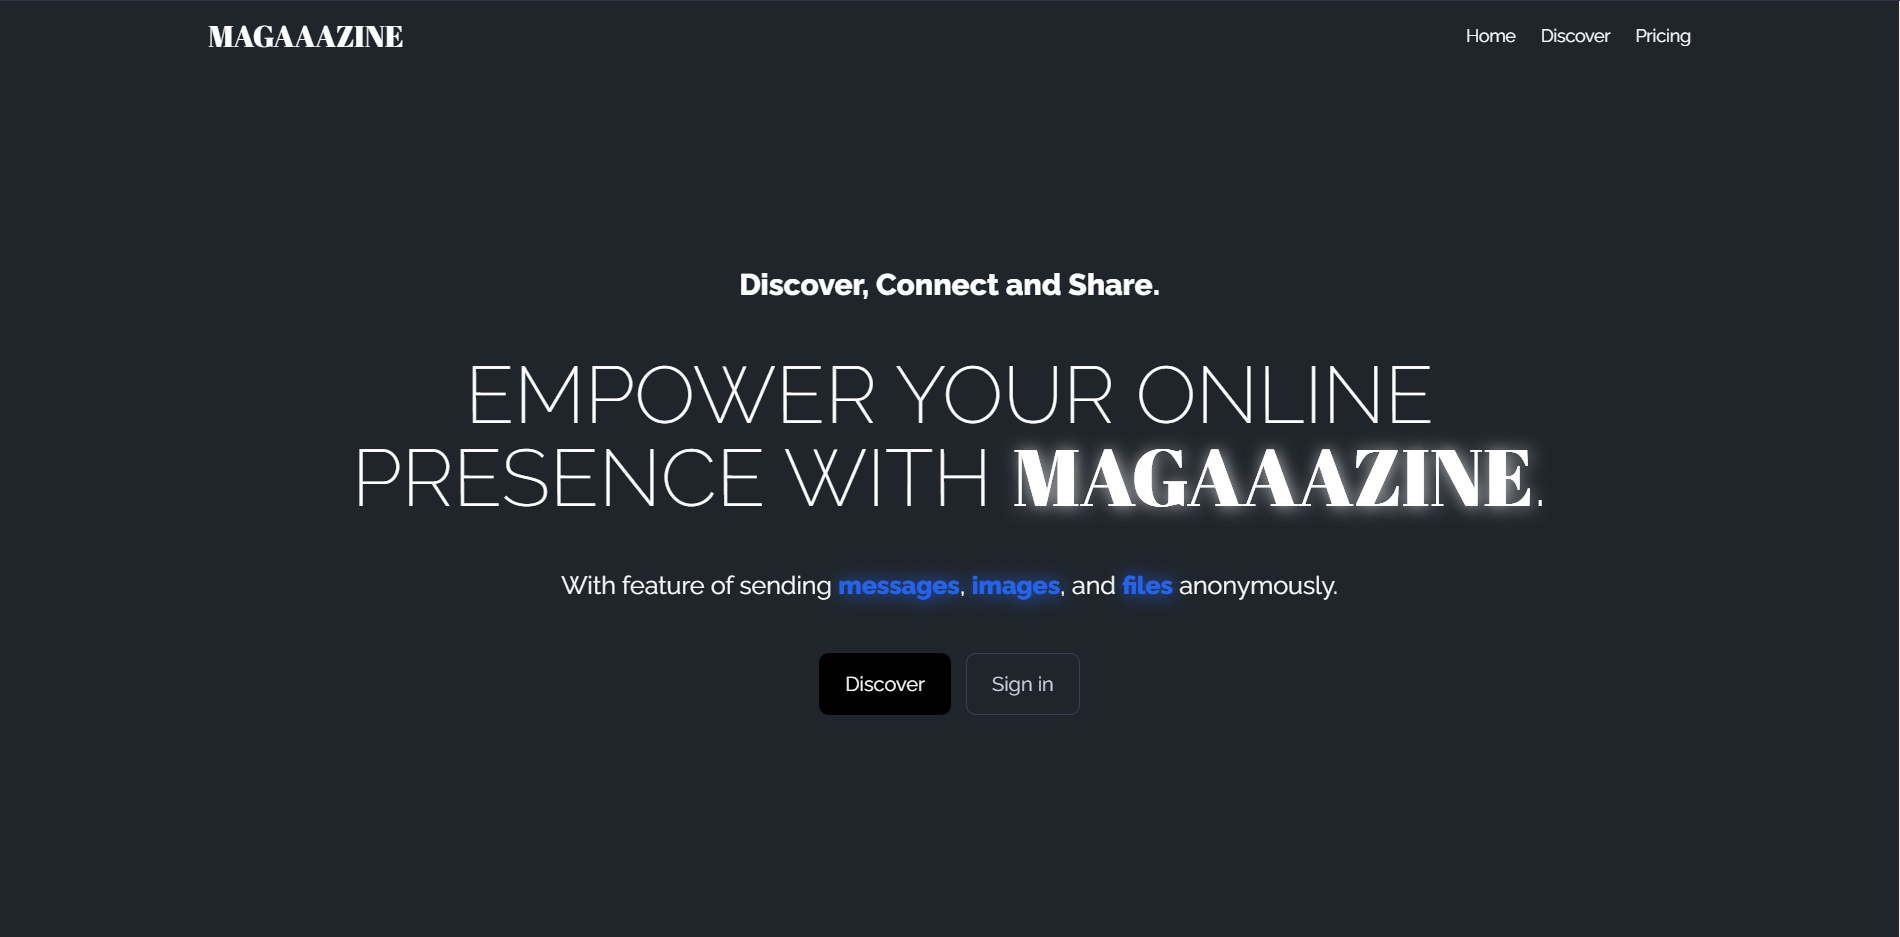
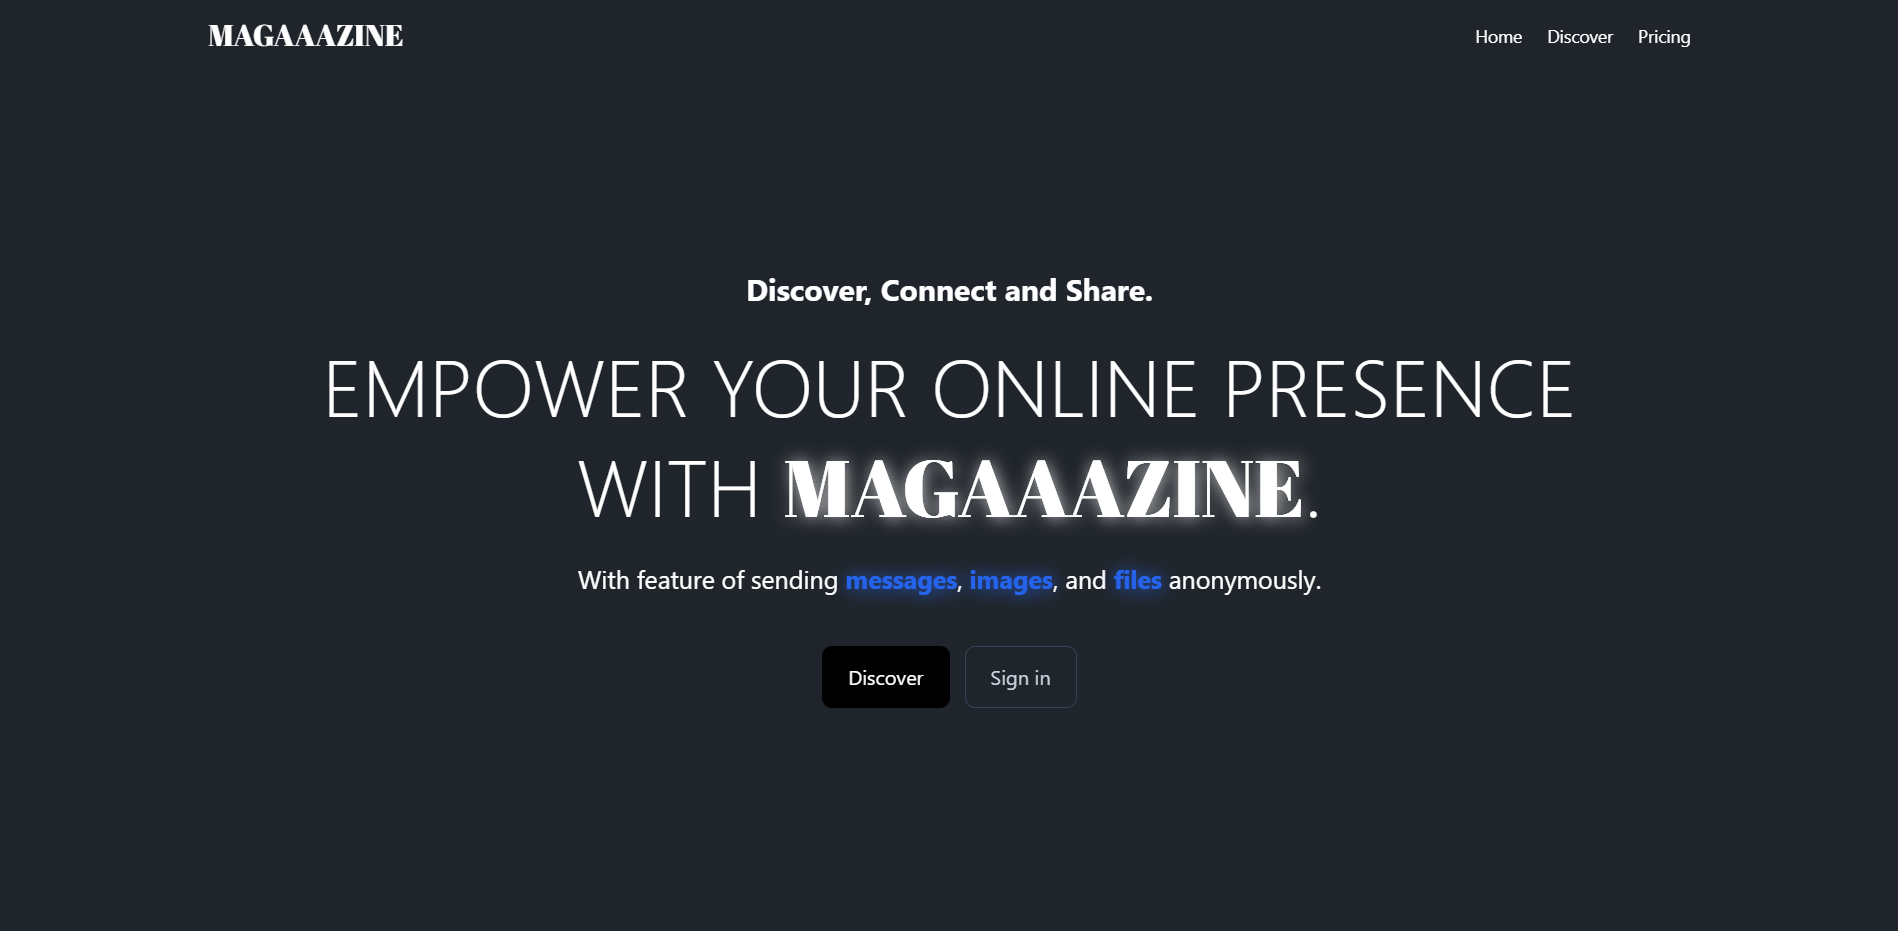
style: update homepage ui layout (#90)

diff --git a/src/app/page.tsx b/src/app/page.tsx
@@ -9,11 +9,11 @@ export default async function Home() {
   return (
     <DefaultLayout>
       <section className="flex h-full min-h-full w-full flex-col items-center justify-start p-2 md:min-h-screen md:justify-center md:p-5">
-        <div className="mt-[5rem] flex w-full max-w-full flex-col items-center gap-y-5 md:-mt-20 md:max-w-5xl md:gap-y-10">
+        <div className="mt-[5rem] flex w-full max-w-full flex-col items-center gap-y-5 md:-mt-20 md:max-w-5xl md:gap-y-5">
           <h2 className="text-center font-raleway text-xl font-bold md:text-2xl">
             Discover, Connect and Share.
           </h2>
-          <h1 className="text-center font-raleway text-4xl font-light uppercase leading-normal md:text-[4rem] md:leading-[4rem]">
+          <h1 className="text-center font-raleway text-4xl font-light uppercase leading-normal md:text-[4rem] md:leading-[5rem]">
             Empower your online presence with{" "}
             <span className="text-shadow-neutral font-abril-fatface uppercase">Magaaazine</span>.
           </h1>
@@ -23,7 +23,7 @@ export default async function Home() {
             <span className="text-shadow-blue font-bold text-blue-600">images</span>,{" and "}
             <span className="text-shadow-blue font-bold text-blue-600">files</span> anonymously.
           </h2>
-          <div className="mt-1 flex w-full flex-row items-center justify-center gap-x-3 md:mt-0">
+          <div className="mt-1 flex w-full flex-row items-center justify-center gap-x-3 md:mt-5">
             <Link href="/discover" className="custom-button">
               Discover
             </Link>
